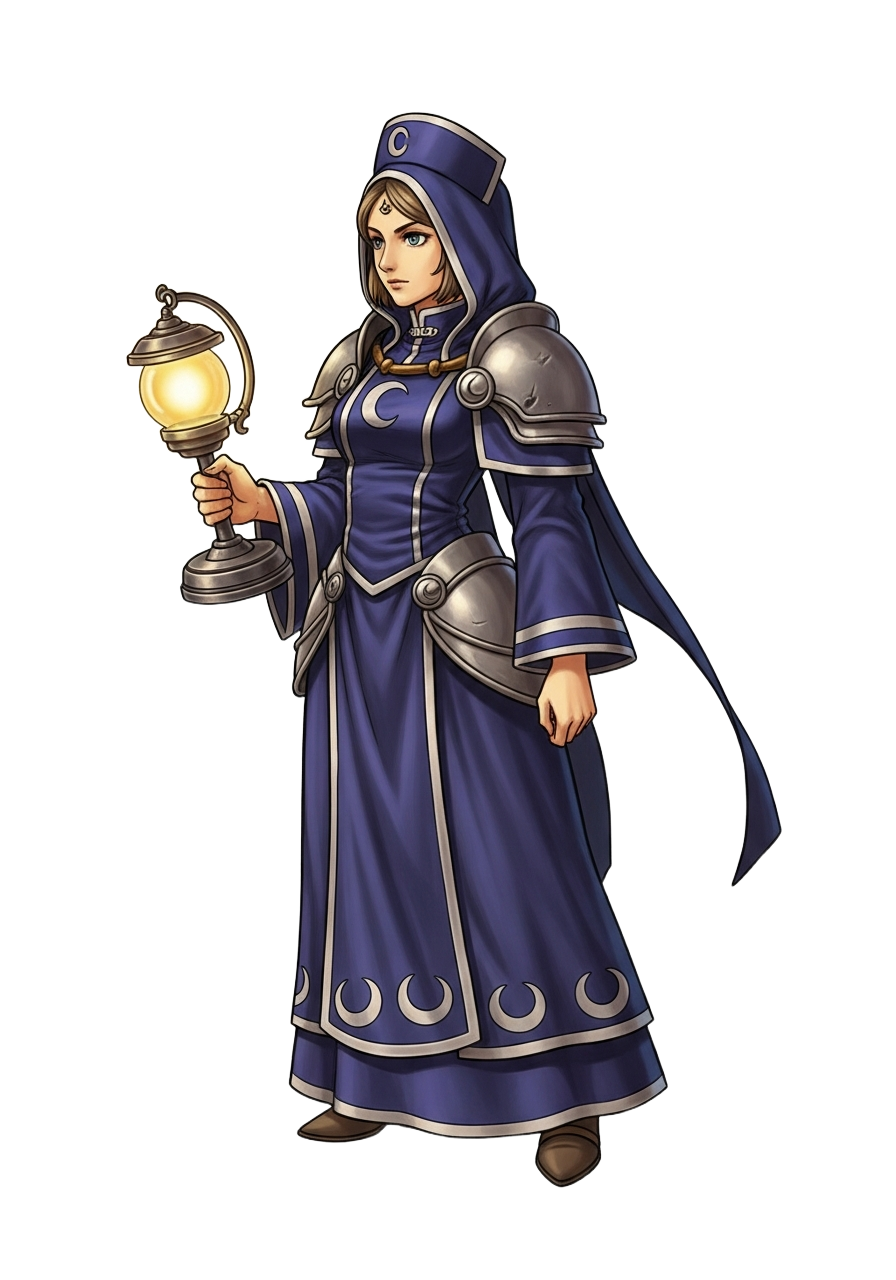
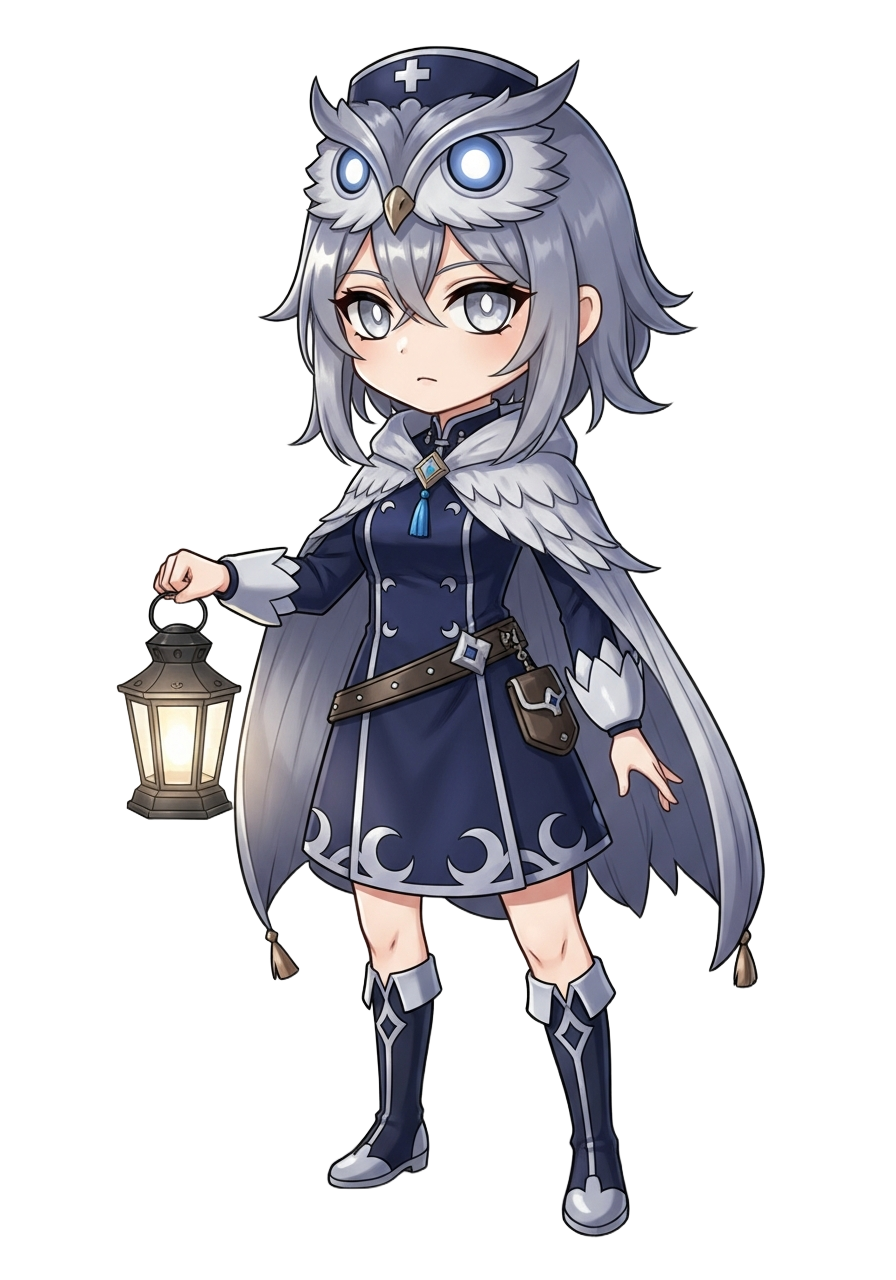
Refresh 7 hero battle sprites and consolidate Former Self → The Prodigy
## What changed

### Art (7 new battle sprites)
Generated fresh full-body chibi donghua/anime battle sprites (transparent background,
cel-shaded, 3:4 aspect ratio) for the 7 heroes that were missing matching style art:
- data_acolyte, junior_warden, infection_warden, mindkeeper
- novice_guardian, night_watcher, wound_sage
Overwrote the existing PNGs in frontend/assets/heroes/battle/

### Former Self → The Prodigy consolidation
- Deleted frontend/assets/heroes/battle/former_self.png
- HeroBattleSprites.ts: removed stale former_self/prologue_former_self entries that
  pointed to the deleted file; both legacy aliases now redirect to the_prodigy.png
- HeroSprites.ts: former_self/prologue_former_self portrait aliases redirected from
  former_self_portrait.png to the_prodigy.png (battle sprite used as interim portrait)
- content.ts: hero name 'The Former Self' → 'The Prodigy'; backstory and
  skill rpgDescriptions updated to say "The Prodigy"
- prologueCharacters.ts: PROLOGUE_CHARACTERS.PRODIGY.name updated
- PrologueBossGate.tsx: display text updated
- PrologueLoadout.tsx: HERO_SLOTS name + inline heroName Text updated
- prologueTypes.ts: PROLOGUE_PHASE_DESCRIPTIONS narrative strings updated
- hero-audit.tsx: dev-tool audit entry name updated
- getHeroVisuals.ts: added prologue_the_prodigy and the_prodigy to PROLOGUE_IDS

### Registry comments
HeroBattleSprites.ts: added inline // Display Name comment on every entry
[…]

diff --git a/frontend/src/components/HeroBattleSprites.ts b/frontend/src/components/HeroBattleSprites.ts
@@ -1,146 +1,146 @@
 const BATTLE_SPRITES: Record<string, any> = {
   // ── Existing epic/prologue heroes ──
-  novice_guardian: require('../../assets/heroes/battle/novice_guardian.png'),
-  night_watcher: require('../../assets/heroes/battle/night_watcher.png'),
-  apprentice_seer: require('../../assets/heroes/battle/apprentice_seer.png'),
-  junior_warden: require('../../assets/heroes/battle/junior_warden.png'),
-  data_acolyte: require('../../assets/heroes/battle/data_acolyte.png'),
-  village_caretaker: require('../../assets/heroes/battle/village_caretaker.png'),
-  storm_runner: require('../../assets/heroes/battle/storm_runner.png'),
-  infection_warden: require('../../assets/heroes/battle/infection_warden.png'),
-  wound_sage: require('../../assets/heroes/battle/wound_sage.png'),
-  mindkeeper: require('../../assets/heroes/battle/mindkeeper.png'),
+  novice_guardian:   require('../../assets/heroes/battle/novice_guardian.png'),   // Novice Guardian
+  night_watcher:     require('../../assets/heroes/battle/night_watcher.png'),     // Night Watcher
+  apprentice_seer:   require('../../assets/heroes/battle/apprentice_seer.png'),   // Apprentice Seer
+  junior_warden:     require('../../assets/heroes/battle/junior_warden.png'),     // Junior Warden
+  data_acolyte:      require('../../assets/heroes/battle/data_acolyte.png'),      // Data Acolyte
+  village_caretaker: require('../../assets/heroes/battle/village_caretaker.png'), // Village Caretaker
+  storm_runner:      require('../../assets/heroes/battle/storm_runner.png'),      // Storm Runner
+  infection_warden:  require('../../assets/heroes/battle/infection_warden.png'),  // Infection Warden
+  wound_sage:        require('../../assets/heroes/battle/wound_sage.png'),        // Wound Sage
+  mindkeeper:        require('../../assets/heroes/battle/mindkeeper.png'),        // Mindkeeper
 
   // ── WARDBORN commons ──
-  wardlight_apprentice: require('../../assets/heroes/battle/wardlight_apprentice.png'),
-  gentle_hands_aide: require('../../assets/heroes/battle/gentle_hands_aide.png'),
-  safety_watch_initiate: require('../../assets/heroes/battle/safety_watch_initiate.png'),
-  care_chain_initiate: require('../../assets/heroes/battle/care_chain_initiate.png'),
-  comfort_scribe: require('../../assets/heroes/battle/comfort_scribe.png'),
-  record_keeper_initiate: require('../../assets/heroes/battle/record_keeper_initiate.png'),
+  wardlight_apprentice:    require('../../assets/heroes/battle/wardlight_apprentice.png'),    // Wardlight Apprentice
+  gentle_hands_aide:       require('../../assets/heroes/battle/gentle_hands_aide.png'),       // Gentle Hands Aide
+  safety_watch_initiate:   require('../../assets/heroes/battle/safety_watch_initiate.png'),   // Safety Watch Initiate
+  care_chain_initiate:     require('../../assets/heroes/battle/care_chain_initiate.png'),     // Care Chain Initiate
+  comfort_scribe:          require('../../assets/heroes/battle/comfort_scribe.png'),          // Comfort Scribe
+  record_keeper_initiate:  require('../../assets/heroes/battle/record_keeper_initiate.png'),  // Record Keeper Initiate
 
   // ── WARDBORN uncommons ──
-  bedside_guardian: require('../../assets/heroes/battle/bedside_guardian.png'),
-  triage_lantern: require('../../assets/heroes/battle/triage_lantern.png'),
-  mindward_listener: require('../../assets/heroes/battle/mindward_listener.png'),
-  infection_watcher: require('../../assets/heroes/battle/infection_watcher.png'),
-  quality_sealbearer: require('../../assets/heroes/battle/quality_sealbearer.png'),
+  bedside_guardian:   require('../../assets/heroes/battle/bedside_guardian.png'),   // Bedside Guardian
+  triage_lantern:     require('../../assets/heroes/battle/triage_lantern.png'),     // Triage Lantern
+  mindward_listener:  require('../../assets/heroes/battle/mindward_listener.png'),  // Mindward Listener
+  infection_watcher:  require('../../assets/heroes/battle/infection_watcher.png'),  // Infection Watcher
+  quality_sealbearer: require('../../assets/heroes/battle/quality_sealbearer.png'), // Quality Sealbearer
 
   // ── WARDBORN rares ──
-  night_ward_sentinel: require('../../assets/heroes/battle/night_ward_sentinel.png'),
-  crisis_calm_keeper: require('../../assets/heroes/battle/crisis_calm_keeper.png'),
-  safety_auditor: require('../../assets/heroes/battle/safety_auditor.png'),
+  night_ward_sentinel: require('../../assets/heroes/battle/night_ward_sentinel.png'), // Night Ward Sentinel
+  crisis_calm_keeper:  require('../../assets/heroes/battle/crisis_calm_keeper.png'),  // Crisis Calm Keeper
+  safety_auditor:      require('../../assets/heroes/battle/safety_auditor.png'),      // Safety Auditor
 
   // ── LIFEBREATH commons ──
-  breath_aide: require('../../assets/heroes/battle/breath_aide.png'),
-  airway_apprentice: require('../../assets/heroes/battle/airway_apprentice.png'),
-  pulsewind_initiate: require('../../assets/heroes/battle/pulsewind_initiate.png'),
-  nebula_trainee: require('../../assets/heroes/battle/nebula_trainee.png'),
-  vapor_aide: require('../../assets/heroes/battle/vapor_aide.png'),
-  cascade_aide: require('../../assets/heroes/battle/cascade_aide.png'),
+  breath_aide:         require('../../assets/heroes/battle/breath_aide.png'),         // Breath Aide
+  airway_apprentice:   require('../../assets/heroes/battle/airway_apprentice.png'),   // Airway Apprentice
+  pulsewind_initiate:  require('../../assets/heroes/battle/pulsewind_initiate.png'),  // Pulsewind Initiate
+  nebula_trainee:      require('../../assets/heroes/battle/nebula_trainee.png'),      // Nebula Trainee
+  vapor_aide:          require('../../assets/heroes/battle/vapor_aide.png'),          // Vapor Aide
+  cascade_aide:        require('../../assets/heroes/battle/cascade_aide.png'),        // Cascade Aide
 
   // ── LIFEBREATH uncommons ──
-  breath_lantern: require('../../assets/heroes/battle/breath_lantern.png'),
-  emergency_airway_warden: require('../../assets/heroes/battle/emergency_airway_warden.png'),
-  pulmonary_guide: require('../../assets/heroes/battle/pulmonary_guide.png'),
-  sleepwind_keeper: require('../../assets/heroes/battle/sleepwind_keeper.png'),
-  icu_breathkeeper: require('../../assets/heroes/battle/icu_breathkeeper.png'),
+  breath_lantern:            require('../../assets/heroes/battle/breath_lantern.png'),            // Breath Lantern
+  emergency_airway_warden:   require('../../assets/heroes/battle/emergency_airway_warden.png'),   // Emergency Airway Warden
+  pulmonary_guide:           require('../../assets/heroes/battle/pulmonary_guide.png'),           // Pulmonary Guide
+  sleepwind_keeper:          require('../../assets/heroes/battle/sleepwind_keeper.png'),          // Sleepwind Keeper
+  icu_breathkeeper:          require('../../assets/heroes/battle/icu_breathkeeper.png'),          // ICU Breathkeeper
 
   // ── LIFEBREATH rares ──
-  breathstride_therapist: require('../../assets/heroes/battle/breathstride_therapist.png'),
-  airway_warden: require('../../assets/heroes/battle/airway_warden.png'),
-  night_breath_warden: require('../../assets/heroes/battle/night_breath_warden.png'),
+  breathstride_therapist: require('../../assets/heroes/battle/breathstride_therapist.png'), // Breathstride Therapist
+  airway_warden:          require('../../assets/heroes/battle/airway_warden.png'),          // Airway Warden
+  night_breath_warden:    require('../../assets/heroes/battle/night_breath_warden.png'),    // Night Breath Warden
 
   // ── TRUTHSEER commons ──
-  anatomy_scribe: require('../../assets/heroes/battle/anatomy_scribe.png'),
-  whitecoat_initiate: require('../../assets/heroes/battle/whitecoat_initiate.png'),
-  image_apprentice: require('../../assets/heroes/battle/image_apprentice.png'),
-  sample_runner: require('../../assets/heroes/battle/sample_runner.png'),
-  vial_keeper: require('../../assets/heroes/battle/vial_keeper.png'),
-  pathlight_initiate: require('../../assets/heroes/battle/pathlight_initiate.png'),
+  anatomy_scribe:      require('../../assets/heroes/battle/anatomy_scribe.png'),      // Anatomy Scribe
+  whitecoat_initiate:  require('../../assets/heroes/battle/whitecoat_initiate.png'),  // Whitecoat Initiate
+  image_apprentice:    require('../../assets/heroes/battle/image_apprentice.png'),    // Image Apprentice
+  sample_runner:       require('../../assets/heroes/battle/sample_runner.png'),       // Sample Runner
+  vial_keeper:         require('../../assets/heroes/battle/vial_keeper.png'),         // Vial Keeper
+  pathlight_initiate:  require('../../assets/heroes/battle/pathlight_initiate.png'),  // Pathlight Initiate
 
   // ── TRUTHSEER uncommons ──
-  resident_of_dawn: require('../../assets/heroes/battle/resident_of_dawn.png'),
-  codefire_physician: require('../../assets/heroes/battle/codefire_physician.png'),
-  radiant_lens: require('../../assets/heroes/battle/radiant_lens.png'),
-  lablight_technologist: require('../../assets/heroes/battle/lablight_technologist.png'),
-  hematology_threader: require('../../assets/heroes/battle/hematology_threader.png'),
+  resident_of_dawn:       require('../../assets/heroes/battle/resident_of_dawn.png'),       // Resident of Dawn
+  codefire_physician:     require('../../assets/heroes/battle/codefire_physician.png'),     // Codefire Physician
+  radiant_lens:           require('../../assets/heroes/battle/radiant_lens.png'),           // Radiant Lens
+  lablight_technologist:  require('../../assets/heroes/battle/lablight_technologist.png'),  // Lablight Technologist
+  hematology_threader:    require('../../assets/heroes/battle/hematology_threader.png'),    // Hematology Threader
 
   // ── TRUTHSEER rares ──
-  wardround_doctor: require('../../assets/heroes/battle/wardround_doctor.png'),
-  spiral_ct_seer: require('../../assets/heroes/battle/spiral_ct_seer.png'),
-  microbe_seer: require('../../assets/heroes/battle/microbe_seer.png'),
+  wardround_doctor: require('../../assets/heroes/battle/wardround_doctor.png'), // Wardround Doctor
+  spiral_ct_seer:   require('../../assets/heroes/battle/spiral_ct_seer.png'),   // Spiral CT Seer
+  microbe_seer:     require('../../assets/heroes/battle/microbe_seer.png'),     // Microbe Seer
 
   // ── REMEDYBOUND commons ──
-  shelfmark_apprentice: require('../../assets/heroes/battle/shelfmark_apprentice.png'),
-  dose_scribe: require('../../assets/heroes/battle/dose_scribe.png'),
-  mortar_initiate: require('../../assets/heroes/battle/mortar_initiate.png'),
-  garden_apprentice: require('../../assets/heroes/battle/garden_apprentice.png'),
-  plate_initiate: require('../../assets/heroes/battle/plate_initiate.png'),
-  hydration_scribe: require('../../assets/heroes/battle/hydration_scribe.png'),
+  shelfmark_apprentice: require('../../assets/heroes/battle/shelfmark_apprentice.png'), // Shelfmark Apprentice
+  dose_scribe:          require('../../assets/heroes/battle/dose_scribe.png'),          // Dose Scribe
+  mortar_initiate:      require('../../assets/heroes/battle/mortar_initiate.png'),      // Mortar Initiate
+  garden_apprentice:    require('../../assets/heroes/battle/garden_apprentice.png'),    // Garden Apprentice
+  plate_initiate:       require('../../assets/heroes/battle/plate_initiate.png'),       // Plate Initiate
+  hydration_scribe:     require('../../assets/heroes/battle/hydration_scribe.png'),     // Hydration Scribe
 
   // ── REMEDYBOUND uncommons ──
-  lotus_apothecary: require('../../assets/heroes/battle/lotus_apothecary.png'),
-  clinic_dosekeeper: require('../../assets/heroes/battle/clinic_dosekeeper.png'),
-  compound_hand: require('../../assets/heroes/battle/compound_hand.png'),
-  lotus_dietitian: require('../../assets/heroes/battle/lotus_dietitian.png'),
-  glucose_lantern: require('../../assets/heroes/battle/glucose_lantern.png'),
+  lotus_apothecary:  require('../../assets/heroes/battle/lotus_apothecary.png'),  // Lotus Apothecary
+  clinic_dosekeeper: require('../../assets/heroes/battle/clinic_dosekeeper.png'), // Clinic Dosekeeper
+  compound_hand:     require('../../assets/heroes/battle/compound_hand.png'),     // Compound Hand
+  lotus_dietitian:   require('../../assets/heroes/battle/lotus_dietitian.png'),   // Lotus Dietitian
+  glucose_lantern:   require('../../assets/heroes/battle/glucose_lantern.png'),   // Glucose Lantern
 
   // ── REMEDYBOUND rares ──
-  ward_pharmacist: require('../../assets/heroes/battle/ward_pharmacist.png'),
-  antidote_alchemist: require('../../assets/heroes/battle/antidote_alchemist.png'),
-  metabolic_garden_sage: require('../../assets/heroes/battle/metabolic_garden_sage.png'),
+  ward_pharmacist:       require('../../assets/heroes/battle/ward_pharmacist.png'),       // Ward Pharmacist
+  antidote_alchemist:    require('../../assets/heroes/battle/antidote_alchemist.png'),    // Antidote Alchemist
+  metabolic_garden_sage: require('../../assets/heroes/battle/metabolic_garden_sage.png'), // Metabolic Garden Sage
 
   // ── RESTOREBOUND commons ──
-  stepwise_aide: require('../../assets/heroes/battle/stepwise_aide.png'),
-  gait_apprentice: require('../../assets/heroes/battle/gait_apprentice.png'),
-  stretch_hand: require('../../assets/heroes/battle/stretch_hand.png'),
-  function_aide: require('../../assets/heroes/battle/function_aide.png'),
-  routine_keeper: require('../../assets/heroes/battle/routine_keeper.png'),
-  grip_apprentice: require('../../assets/heroes/battle/grip_apprentice.png'),
+  stepwise_aide:    require('../../assets/heroes/battle/stepwise_aide.png'),    // Stepwise Aide
+  gait_apprentice:  require('../../assets/heroes/battle/gait_apprentice.png'),  // Gait Apprentice
+  stretch_hand:     require('../../assets/heroes/battle/stretch_hand.png'),     // Stretch Hand
+  function_aide:    require('../../assets/heroes/battle/function_aide.png'),    // Function Aide
+  routine_keeper:   require('../../assets/heroes/battle/routine_keeper.png'),   // Routine Keeper
+  grip_apprentice:  require('../../assets/heroes/battle/grip_apprentice.png'),  // Grip Apprentice
 
   // ── RESTOREBOUND uncommons ──
-  gait_lantern: require('../../assets/heroes/battle/gait_lantern.png'),
-  neurostep_seer: require('../../assets/heroes/battle/neurostep_seer.png'),
-  bonepath_guide: require('../../assets/heroes/battle/bonepath_guide.png'),
-  lifeweave_therapist: require('../../assets/heroes/battle/lifeweave_therapist.png'),
-  mindroutine_keeper: require('../../assets/heroes/battle/mindroutine_keeper.png'),
+  gait_lantern:         require('../../assets/heroes/battle/gait_lantern.png'),         // Gait Lantern
+  neurostep_seer:       require('../../assets/heroes/battle/neurostep_seer.png'),       // Neurostep Seer
+  bonepath_guide:       require('../../assets/heroes/battle/bonepath_guide.png'),       // Bonepath Guide
+  lifeweave_therapist:  require('../../assets/heroes/battle/lifeweave_therapist.png'),  // Lifeweave Therapist
+  mindroutine_keeper:   require('../../assets/heroes/battle/mindroutine_keeper.png'),   // Mindroutine Keeper
 
   // ── RESTOREBOUND rares ──
-  acute_step_warden: require('../../assets/heroes/battle/acute_step_warden.png'),
-  iron_tendon_adept: require('../../assets/heroes/battle/iron_tendon_adept.png'),
-  cognitive_rehab_specialist: require('../../assets/heroes/battle/cognitive_rehab_specialist.png'),
+  acute_step_warden:          require('../../assets/heroes/battle/acute_step_warden.png'),          // Acute Step Warden
+  iron_tendon_adept:          require('../../assets/heroes/battle/iron_tendon_adept.png'),          // Iron Tendon Adept
+  cognitive_rehab_specialist: require('../../assets/heroes/battle/cognitive_rehab_specialist.png'), // Cognitive Rehab Specialist
 
   // ── REALMBOUND commons ──
-  village_health_aide: require('../../assets/heroes/battle/village_health_aide.png'),
-  banner_scribe: require('../../assets/heroes/battle/banner_scribe.png'),
-  clean_water_runner: require('../../assets/heroes/battle/clean_water_runner.png'),
-  care_guide: require('../../assets/heroes/battle/care_guide.png'),
-  return_path_scribe: require('../../assets/heroes/battle/return_path_scribe.png'),
-  data_threader_initiate: require('../../assets/heroes/battle/data_threader_initiate.png'),
+  village_health_aide:     require('../../assets/heroes/battle/village_health_aide.png'),     // Village Health Aide
+  banner_scribe:           require('../../assets/heroes/battle/banner_scribe.png'),           // Banner Scribe
+  clean_water_runner:      require('../../assets/heroes/battle/clean_water_runner.png'),      // Clean Water Runner
+  care_guide:              require('../../assets/heroes/battle/care_guide.png'),              // Care Guide
+  return_path_scribe:      require('../../assets/heroes/battle/return_path_scribe.png'),      // Return Path Scribe
+  data_threader_initiate:  require('../../assets/heroes/battle/data_threader_initiate.png'),  // Data Threader Initiate
 
   // ── REALMBOUND uncommons ──
-  community_lantern: require('../../assets/heroes/battle/community_lantern.png'),
-  health_banner_guide: require('../../assets/heroes/battle/health_banner_guide.png'),
-  clean_water_sentinel: require('../../assets/heroes/battle/clean_water_sentinel.png'),
-  resource_lantern: require('../../assets/heroes/battle/resource_lantern.png'),
-  discharge_planner: require('../../assets/heroes/battle/discharge_planner.png'),
+  community_lantern:     require('../../assets/heroes/battle/community_lantern.png'),     // Community Lantern
+  health_banner_guide:   require('../../assets/heroes/battle/health_banner_guide.png'),   // Health Banner Guide
+  clean_water_sentinel:  require('../../assets/heroes/battle/clean_water_sentinel.png'),  // Clean Water Sentinel
+  resource_lantern:      require('../../assets/heroes/battle/resource_lantern.png'),      // Resource Lantern
+  discharge_planner:     require('../../assets/heroes/battle/discharge_planner.png'),     // Discharge Planner
 
   // ── REALMBOUND rares ──
-  pattern_seer: require('../../assets/heroes/battle/pattern_seer.png'),
-  environmental_seal_warden: require('../../assets/heroes/battle/environmental_seal_warden.png'),
-  chartweave_analyst: require('../../assets/heroes/battle/chartweave_analyst.png'),
-  florence_nightingale: require('../../assets/heroes/battle/florence_nightingale.png'),
+  pattern_seer:                require('../../assets/heroes/battle/pattern_seer.png'),                // Pattern Seer
+  environmental_seal_warden:   require('../../assets/heroes/battle/environmental_seal_warden.png'),   // Environmental Seal Warden
+  chartweave_analyst:          require('../../assets/heroes/battle/chartweave_analyst.png'),          // Chartweave Analyst
+  florence_nightingale:        require('../../assets/heroes/battle/florence_nightingale.png'),        // Florence Nightingale (recruitable REALMBOUND rare)
 
   // ── Prologue loaner heroes (tutorial + scripted-loss boss) ──
-  prologue_nightingale:  require('../../assets/heroes/battle/prologue_nightingale.png'),
-  prologue_fleming:      require('../../assets/heroes/battle/prologue_fleming.png'),
-  prologue_the_prodigy:  require('../../assets/heroes/battle/the_prodigy.png'),
+  prologue_nightingale:  require('../../assets/heroes/battle/prologue_nightingale.png'),  // Nightingale (prologue loaner — distinct from recruitable florence_nightingale)
+  prologue_fleming:      require('../../assets/heroes/battle/prologue_fleming.png'),      // Fleming (prologue loaner)
+  prologue_the_prodigy:  require('../../assets/heroes/battle/the_prodigy.png'),           // The Prodigy (prologue boss / peak-power self)
 
-  // ── Former Self / The Prodigy (scripted prologue battle) ──
-  former_self:           require('../../assets/heroes/battle/the_prodigy.png'),
-  prologue_former_self:  require('../../assets/heroes/battle/the_prodigy.png'),
-  the_prodigy:           require('../../assets/heroes/battle/the_prodigy.png'),
+  // ── The Prodigy aliases (former_self consolidated → the_prodigy) ──
+  the_prodigy:           require('../../assets/heroes/battle/the_prodigy.png'),           // The Prodigy
+  former_self:           require('../../assets/heroes/battle/the_prodigy.png'),           // The Prodigy (legacy alias)
+  prologue_former_self:  require('../../assets/heroes/battle/the_prodigy.png'),           // The Prodigy (legacy prologue alias)
 };
 
 // All battle-sprite modules, for cache preloading at game start.

diff --git a/frontend/src/game/content.ts b/frontend/src/game/content.ts
@@ -191,14 +191,14 @@ export const HEROES: Hero[] = [
     description: 'The peak of clinical mastery. A healer who reached the summit, yet forgot that wisdom matters more than power.',
     faction: 'Clinica',
     quote: 'I have seen every disease. None have beaten me. None will.',
-    backstory: 'At their peak, the Former Self commanded every element and technique of the healing arts. Their power is undeniable; yet power without wisdom is the seed of every tragedy.',
+    backstory: 'At their peak, The Prodigy commanded every element and technique of the healing arts. Their power is undeniable; yet power without wisdom is the seed of every tragedy.',
     bestAgainst: 'Universal',
     medicalFocus: 'Comprehensive mastery, multi-system support, mythic intervention',
     bondLevel: 0,
     bondExp: 0,
     skills: [
-      { id: 'ward_dominion', name: 'Ward Dominion', type: 'stabilize', systemType: 'Universal', cost: 2, description: 'Mythic ward mastery. +65 Stability, -30 Corruption.', shortEffect: 'Universal • +65 Stability · -30 Corruption', rpgDescription: 'The Former Self sweeps the ward with mythic authority; stability floods back and corruption shatters.', beginnerExplanation: 'A massive wave of mythic healing that stabilises the patient and destroys the problem.', nclexExplanation: 'Comprehensive multi-system stabilisation: airway, circulation, labs, pain, and monitoring addressed simultaneously by a mythic team leader.', stabilize: 65, strike: 30 },
-      { id: 'mythic_prescience', name: 'Mythic Prescience', type: 'scout', systemType: 'Universal', cost: 1, description: 'Intuition beyond training. Reveal 2 clues. -35 Corruption.', shortEffect: 'Scout • Reveal 2 Clues · -35 Corruption', rpgDescription: 'The Former Self reads the patient in an instant, seeing through every hidden detail at once.', beginnerExplanation: 'Instantly reveals hidden clues and strikes the enemy with mythic force.', nclexExplanation: 'Expert clinical intuition: pattern recognition from thousands of cases allows immediate identification of every critical cue others would miss.', reveal: 2, strike: 35 },
+      { id: 'ward_dominion', name: 'Ward Dominion', type: 'stabilize', systemType: 'Universal', cost: 2, description: 'Mythic ward mastery. +65 Stability, -30 Corruption.', shortEffect: 'Universal • +65 Stability · -30 Corruption', rpgDescription: 'The Prodigy sweeps the ward with mythic authority; stability floods back and corruption shatters.', beginnerExplanation: 'A massive wave of mythic healing that stabilises the patient and destroys the problem.', nclexExplanation: 'Comprehensive multi-system stabilisation: airway, circulation, labs, pain, and monitoring addressed simultaneously by a mythic team leader.', stabilize: 65, strike: 30 },
+      { id: 'mythic_prescience', name: 'Mythic Prescience', type: 'scout', systemType: 'Universal', cost: 1, description: 'Intuition beyond training. Reveal 2 clues. -35 Corruption.', shortEffect: 'Scout • Reveal 2 Clues · -35 Corruption', rpgDescription: 'The Prodigy reads the patient in an instant, seeing through every hidden detail at once.', beginnerExplanation: 'Instantly reveals hidden clues and strikes the enemy with mythic force.', nclexExplanation: 'Expert clinical intuition: pattern recognition from thousands of cases allows immediate identification of every critical cue others would miss.', reveal: 2, strike: 35 },
       { id: 'cascade_protocol', name: 'Cascade Protocol', type: 'stabilize', systemType: 'Universal', cost: 3, description: 'The legendary cascade. +90 Stability, -50 Corruption, Protection 35.', shortEffect: 'Mythic • +90 Stability · -50 Corruption · Protection 35', rpgDescription: 'All systems stabilise simultaneously. Corruption collapses. The ward remembers who is in charge.', beginnerExplanation: 'The ultimate move: mythic Stability restoration, massive Corruption reduction, and Protection all at once.', nclexExplanation: 'Coordinated multi-disciplinary rapid response: full team-based stabilisation with simultaneous treatment, monitoring escalation, and protective measures at mythic scale.', stabilize: 90, strike: 50, shield: 35 },
     ],
   },

diff --git a/frontend/src/game/prologueTypes.ts b/frontend/src/game/prologueTypes.ts
@@ -55,9 +55,9 @@ export const PROLOGUE_PHASE_DESCRIPTIONS: Record<ProloguePhase, string> = {
   opening_battle_tutorial:
     'A Dehydration Wisp — small, containable. The kind of enemy that used to be training.',
   former_self_victory_boast:
-    'The shift ends too easily. The Former Self does not notice the warning signs.',
+    'The shift ends too easily. The Prodigy does not notice the warning signs.',
   warning_dialogue_scene:
-    'Master Bai urges caution. The Former Self does not listen.',
+    'Master Bai urges caution. The Prodigy does not listen.',
   silent_infarction_initial_reveal:
     'Something is wrong. The silence has a shape, and it is spreading.',
   former_self_support_loadout:

diff --git a/frontend/src/components/HeroSprites.ts b/frontend/src/components/HeroSprites.ts
@@ -144,7 +144,7 @@ const SPRITES: Record<string, ImageSourcePropType> = {
   prologue_the_prodigy:  require('../../assets/heroes/battle/the_prodigy.png'),
   the_prodigy:           require('../../assets/heroes/battle/the_prodigy.png'),
 
-  // Former Self — cinematic alias (kept for any legacy references)
+  // The Prodigy — former self aliases, all point to canonical portrait
   prologue_former_self:  require('../../assets/images/prodigy_vn_canonical.png'),
   former_self:           require('../../assets/images/prodigy_vn_canonical.png'),
 };

diff --git a/frontend/src/components/prologue/PrologueLoadout.tsx b/frontend/src/components/prologue/PrologueLoadout.tsx
@@ -378,7 +378,7 @@ export default function PrologueLoadout({ onComplete }: Props) {
             </View>
             <View style={styles.heroInfo}>
               <Text style={[styles.heroRole, { color: "#7EB8F7" }]}>THE PRODIGY</Text>
-              <Text style={styles.heroName}>The Former Self</Text>
+              <Text style={styles.heroName}>The Prodigy</Text>
               <View style={styles.tagRow}>
                 {["Strike", "Heal", "Solo"].map(t => (
                   <View key={t} style={[styles.tag, { borderColor: "#7EB8F740" }]}>

diff --git a/frontend/src/components/getHeroVisuals.ts b/frontend/src/components/getHeroVisuals.ts
@@ -31,7 +31,7 @@ export interface HeroVisualMeta {
   isLocked: boolean;
 }
 
-const PROLOGUE_IDS = new Set(['prologue_nightingale', 'prologue_fleming', 'former_self', 'prologue_former_self']);
+const PROLOGUE_IDS = new Set(['prologue_nightingale', 'prologue_fleming', 'former_self', 'prologue_former_self', 'prologue_the_prodigy', 'the_prodigy']);
 const LOCKED_IDS   = new Set(['florence_nightingale']);
 
 function resolveMeta(heroId: string, heroName?: string): HeroVisualMeta {

diff --git a/frontend/src/components/prologue/PrologueBossGate.tsx b/frontend/src/components/prologue/PrologueBossGate.tsx
@@ -72,7 +72,7 @@ export default function PrologueBossGate() {
         <Text style={s.heading}>The Last Shift</Text>
 
         <Text style={s.sub}>
-          Florence Nightingale, Alexander Fleming and The Former Self stand with you.{"\n"}
+          Florence Nightingale, Alexander Fleming and The Prodigy stand with you.{"\n"}
           Scout. Stabilize. Counter. Reassess.
         </Text>
 
